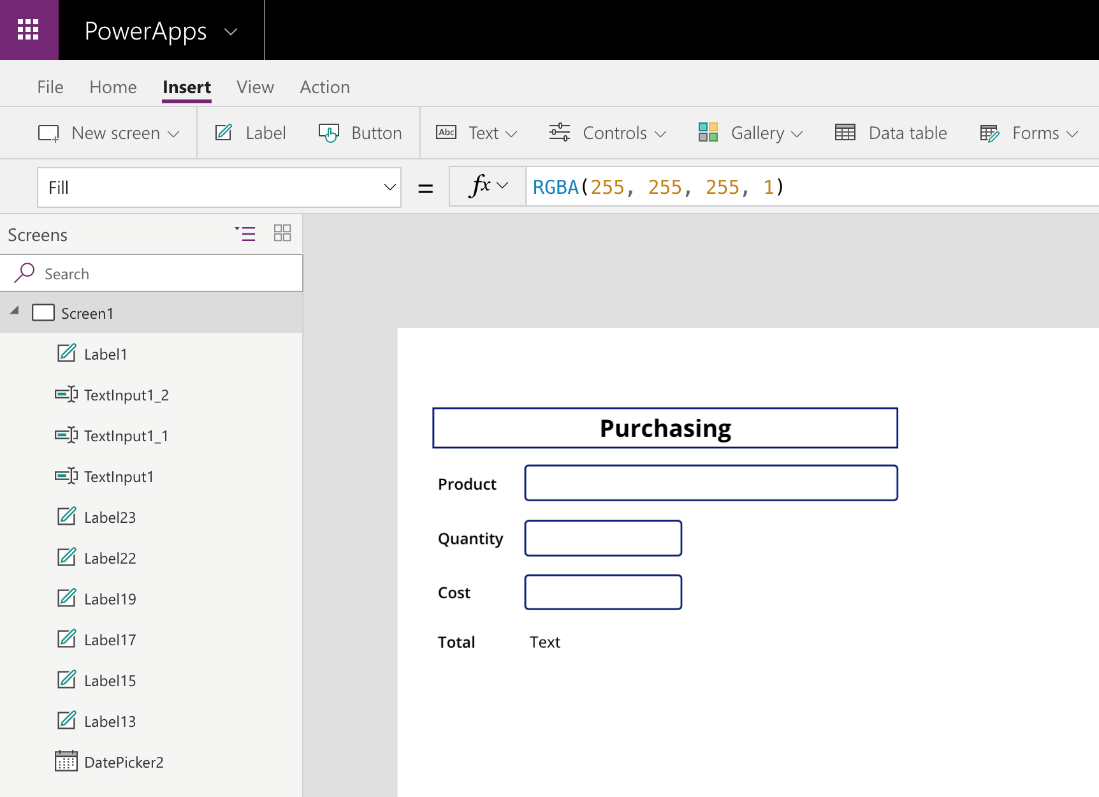
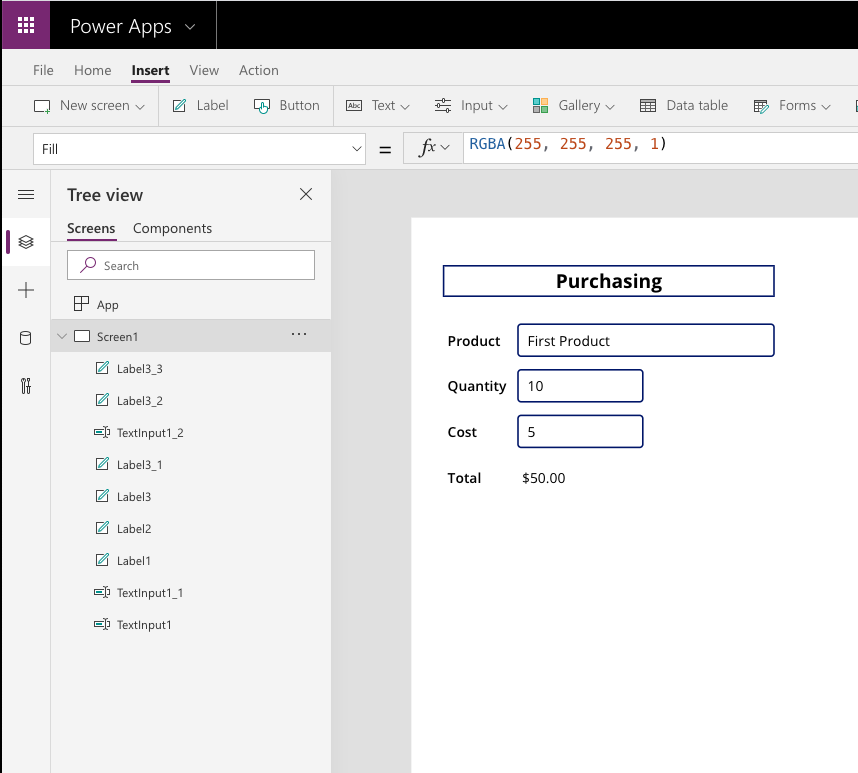
spring updates

diff --git a/learn-bizapps-pr/powerapps/author-basic-formula-change-properties-powerapps/includes/2-modify-controls-format.md b/learn-bizapps-pr/powerapps/author-basic-formula-change-properties-powerapps/includes/2-modify-controls-format.md
@@ -12,10 +12,10 @@ update different control properties, such as:
 
 -   Position (X and Y)
 
-Here's a detailed look at the **Date Picker** control, 
+Here's a detailed look at the **Date picker** control, 
 including a simple example.
 
-The Date Picker control has a few key properties:
+The Date picker control has a few key properties:
 
 -   **DefaultDate** -- The initial value of a date control unless the
     user changes it.
@@ -29,18 +29,18 @@ The Date Picker control has a few key properties:
     including names of months. If this property isn't specified, the
     user's device setting determines the language.
 
-Use the following steps to add the **Date Picker** control and modify
+Use the following steps to add the **Date picker** control and modify
 the displayed format.
 
 1.  In Power Apps Studio, select the **Insert** tab.
 
-2.  In the ribbon, select **Controls**.
+2.  In the ribbon, select **Input**.
 
-3.  From the drop-down menu, select **Date Picker**. By default, when
-    you add the **Date Picker** control, the **DefaultDate** is set to
+3.  From the drop-down menu, select **Date picker**. By default, when
+    you add the **Date picker** control, the **DefaultDate** is set to
     **Today().**
 
-4.  Select the **Properties** drop-down menu, for the **Date Picker** control.
+4.  Select the **Properties** drop-down menu, for the **Date picker** control.
 
 5.  From the drop-down, select **Format**. By default, the **Format**
     property is set to **DateTimeFormat.ShortDate**.

diff --git a/learn-bizapps-pr/powerapps/author-basic-formula-change-properties-powerapps/includes/1-formula-overview.md b/learn-bizapps-pr/powerapps/author-basic-formula-change-properties-powerapps/includes/1-formula-overview.md
@@ -11,7 +11,7 @@ the full list of controls, see more information in the
 This documentation also describes the list of properties available
 for each control.
 
-![Controls](../media/Controls.png)
+![Controls](../media/controls.png)
 
 Control properties
 ------------------
@@ -46,7 +46,7 @@ it is more efficient to create
 multi-function formulas. The following example combines
 multiple functions into a single formula.
 
-![CombineFunctions](../media/CombineFunctions.png)
+![CombineFunctions](../media/combine-functions.png)
 
 The two **Text Input** controls (Textinput1 and Textinput2) have no
 formulas or modifications. The **Text** property of the selected
@@ -76,7 +76,7 @@ will also reflect your local language.
 To help you in your building experience, **Power Apps formulas adapt to
 your local language**. For example, you might see the following formula:
 
-```
+```powerappsfl
 Filter(DataSource, Price > 12.50)
 ```
 
@@ -84,7 +84,7 @@ This is the default for languages where the decimal (.) is used to as the decima
 separator. If your language uses the comma (,) as the decimal separator then the
 syntax of the formula adapts. The previous formula becomes this.
 
-```
+```powerappsfl
 Filter(DataSource; Price > 12,50)
 ```
 

diff --git a/learn-bizapps-pr/powerapps/author-basic-formula-change-properties-powerapps/includes/6-functions-validating-data.md b/learn-bizapps-pr/powerapps/author-basic-formula-change-properties-powerapps/includes/6-functions-validating-data.md
@@ -1,5 +1,5 @@
 Another way to make your App more dynamic and intuitive to the user is
-to use the **IsBlank**, **IsEmpty**, **IsNumeric**, **IsToday**, and
+to use the **IsBlank**, **IsBlankOrError**, **IsEmpty**, **IsNumeric**, **IsToday**, and
 **IsMatch** functions. These functions allow for validation of the
 condition of a field, control, variable, or table. All these functions
 return true or false based on the results of their evaluation. This can
@@ -10,6 +10,8 @@ the evaluation. The following is an overview of each function.
 -   **IsBlank** -- This function checks a field, property, or variable
     to see if the result is blank. If the object is blank then the
     function returns true.
+
+-   **IsBlankOrError** -- This function checks whether an expression is blank or results in an error, and returns true or false.
 
 -   **IsEmpty** -- This function checks a table of data to see if it
     contains records. If the table is empty then the function returns
@@ -37,7 +39,7 @@ control is not a valid email address.
 
 3.  Modify the **DisplayMode** property of the **Button** control to the
     following formula.
-```
+```powerappsfl
 If(IsMatch(TextInput1.Text, Email), DisplayMode.Edit,DisplayMode.Disabled)
 ```
 

diff --git a/learn-bizapps-pr/powerapps/author-basic-formula-change-properties-powerapps/includes/3-formula-for-calculation.md b/learn-bizapps-pr/powerapps/author-basic-formula-change-properties-powerapps/includes/3-formula-for-calculation.md
@@ -23,13 +23,13 @@ the following example shows how to calculate the sum of goods and services.
 1.  Add 6 **Labels** and 3 **Text Inputs** to your canvas app,
     as shown in the following screenshot.
 
-	![Calculation](../media/Calculation.png)
+	![Calculation](../media/calculation.png)
 
 2.  Select the **Label** to the right of "Total".
 
 3.  Change the **Text** property to the following.
 
-```
+```powerappsfl
 Sum(TextInput1_1 * TextInput1_2)
 ```
 
@@ -40,7 +40,7 @@ Sum(TextInput1_1 * TextInput1_2)
 
 5.  Next, format the formula to display the value as a Currency. Update
     the formula as follows.
-```
+```powerappsfl
 Text(Sum(TextInput1_1 * TextInput1_2),"$#,###0.00")
 ```
 

diff --git a/learn-bizapps-pr/powerapps/author-basic-formula-change-properties-powerapps/includes/4-modify-control-property.md b/learn-bizapps-pr/powerapps/author-basic-formula-change-properties-powerapps/includes/4-modify-control-property.md
@@ -25,7 +25,7 @@ information is displayed and consumed by users.
 
 1.  Add a **Dropdown** control to your canvas app.
 
-	> Select **Dropdown** and change the **Items** property from **DropDownSample** to Table({Position:\"Top\"},{Position:\"Bottom\"},{Position:\"Middle\"})
+	> Select **Dropdown** and change the **Items** property from **DropDownSample** to Table({Position:"Top"},{Position:"Bottom"},{Position:"Middle"})
 
 2.  On the **Insert** tab, click **Icons** and select the **Check**
     icon.

diff --git a/learn-bizapps-pr/powerapps/author-basic-formula-change-properties-powerapps/includes/8-summary.md b/learn-bizapps-pr/powerapps/author-basic-formula-change-properties-powerapps/includes/8-summary.md
@@ -15,7 +15,7 @@ your app. Some important items to remember are:
 -   Each control type has a unique set of properties. Use these
     properties to modify the functionality and format of controls.
 
--   Use the validation functions (**IsBlank**, **IsEmpty**,
+-   Use the validation functions (**IsBlank**, **IsBlankOrError**, **IsEmpty**,
     **IsNumeric**, **IsToday**, and **IsMatch**) to prevent errors and
     prevent slowdowns in the processing of the data.
 

diff --git a/learn-bizapps-pr/powerapps/author-basic-formula-change-properties-powerapps/includes/5-conditional-formatting.md b/learn-bizapps-pr/powerapps/author-basic-formula-change-properties-powerapps/includes/5-conditional-formatting.md
@@ -12,7 +12,7 @@ indicators and modified functionality based on the condition.
 Continuing with the previous example, the following formula shows how to apply
 conditional formatting to the **Label1 Color** property.
 
-```
+```powerappsfl
 If(Sum(Value(TextInput1.Text),Value(TextInput2.Text)) >50,Color.DarkGreen,Color.DarkRed)
 ```
 
